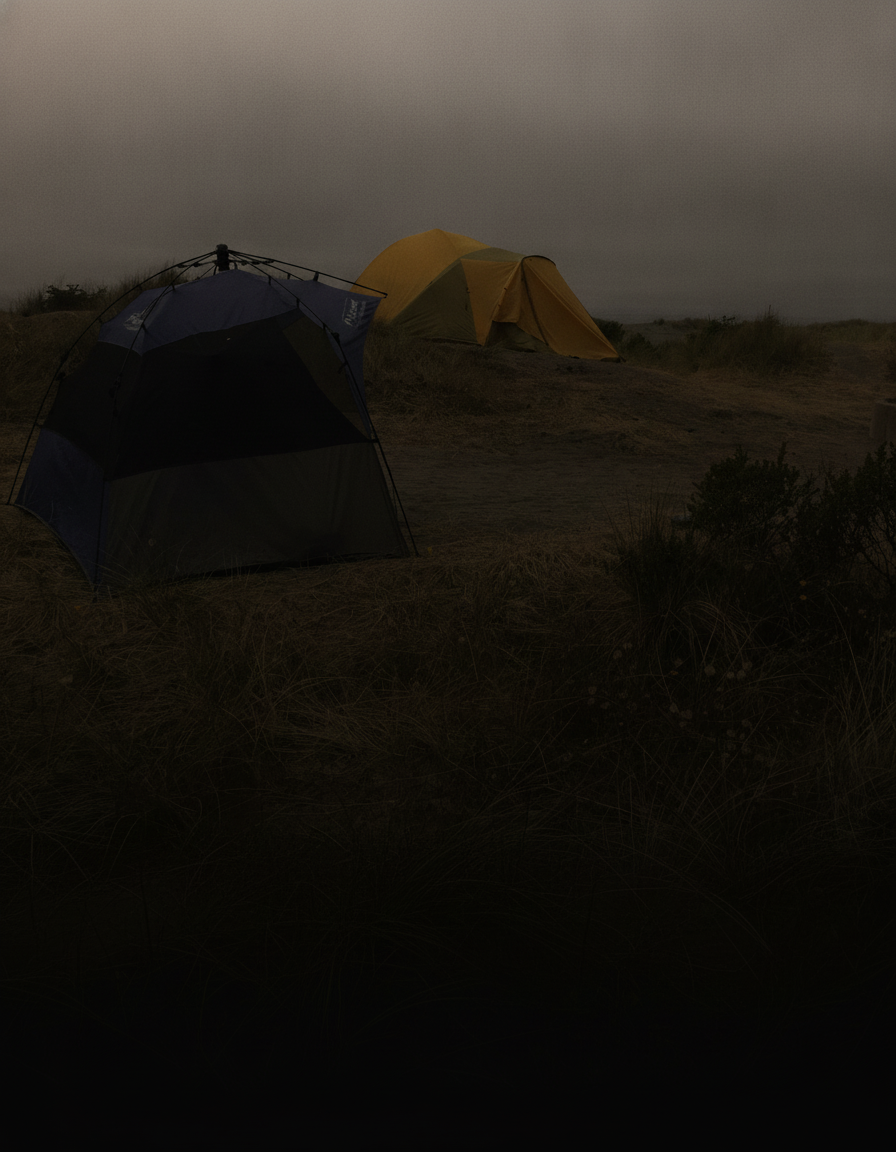
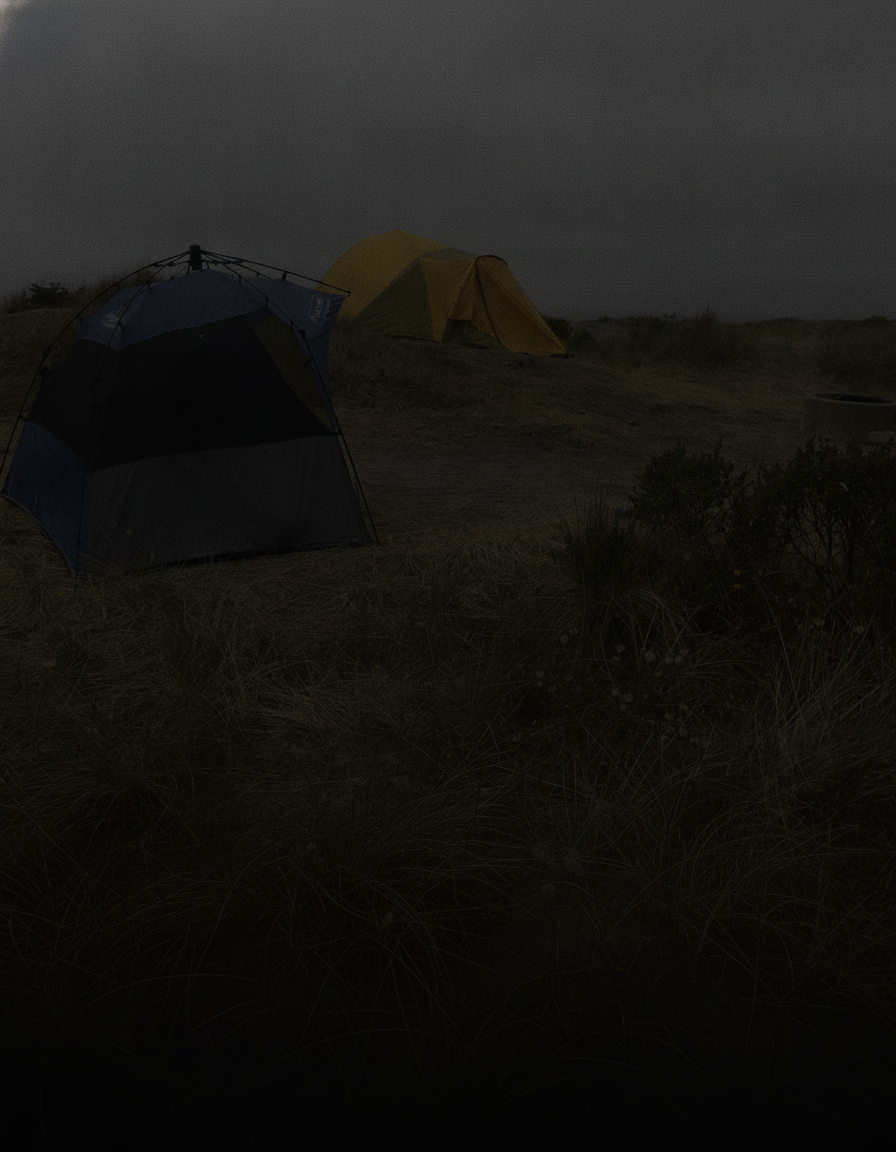
feat(data): Pin of the Week — add yoTrippin! brand wordmark to composite
Adds the "yoTrippin!" wordmark as a small watermark-scale mark, top-right, on
the composited post. This is layered on top of the existing DESIGN.md dark/amber
system — kicker, caption bar, typography, and amber accent are unchanged.

- extract-wordmark.ts isolates the white wordmark from the provided banner
  (near-white threshold in the upper-right region + connected-component speckle
  filter) → brand/yotrippin-wordmark.png (744x166, transparent). Extraction is
  clean (no residual box/stripe/speckle); one honest caveat — binary threshold
  means hard, non-anti-aliased glyph edges (negligible at watermark scale).
- composite.ts draws the mark top-right (balances the top-left kicker; the
  bottom corners collide with the long wrapped title). Skipped gracefully if the
  asset is missing.
- Source note: provided at assets/socailmedia/branding.png — the folder is
  misspelled "socailmedia" (not "social media"). A copy is bundled at
  brand/branding-source.png so extraction/render are reproducible; the top-level
  assets/ dir is left untracked.

Re-rendered Gold Bluffs Beach end-to-end (billed key, TEST) and visually
inspected: wordmark placed, readable, extraction clean, and nothing else in the
dark design changed. 25 unit tests + data typecheck pass. Supersedes #408.

TEST-only, no PROD writes.

diff --git a/data/pin-of-the-week/extract-wordmark.ts b/data/pin-of-the-week/extract-wordmark.ts
@@ -1,0 +1,152 @@
+/**
+ * One-time tool: isolate the white "yoTrippin!" wordmark from the branding
+ * banner into a clean transparent PNG for the composite.
+ *
+ * The banner was provided at assets/socailmedia/branding.png (note: the folder
+ * is misspelled "socailmedia", NOT the "social media" originally referenced).
+ * A copy is bundled here as brand/branding-source.png so this extractor and the
+ * composite are reproducible without the top-level asset.
+ *
+ * The source has a BLACK background with a speckled halo around the wordmark's
+ * blob (not transparent). We isolate the wordmark by:
+ *   1. searching the upper-right region (avoids the diagonal yellow/red stripes),
+ *   2. keeping only near-white pixels (drops black bg, stripes, and dark blob),
+ *   3. dropping small connected components (kills the halo speckle),
+ *   4. cropping tight to what remains.
+ *
+ * Output: brand/yotrippin-wordmark.png (committed; composite.ts loads that, not
+ * the source, so rendering is reproducible without the raw banner).
+ *
+ * Run: npx tsx data/pin-of-the-week/extract-wordmark.ts
+ */
+
+import { writeFile } from "node:fs/promises";
+import { fileURLToPath } from "node:url";
+import { dirname, join } from "node:path";
+import { createCanvas, loadImage } from "@napi-rs/canvas";
+
+const HERE = dirname(fileURLToPath(import.meta.url));
+const SOURCE = join(HERE, "brand", "branding-source.png");
+const OUT = join(HERE, "brand", "yotrippin-wordmark.png");
+
+// Near-white test — the wordmark is white; stripes (yellow/red) have a low
+// channel, so requiring all three high excludes them.
+const WHITE_MIN = 205;
+// Search box (fractions of the banner) — the wordmark blob is upper-right.
+const REGION = { x0: 0.52, x1: 1.0, y0: 0.0, y1: 0.72 };
+// Speckle filter: drop connected white blobs smaller than this many pixels.
+const MIN_COMPONENT = 120;
+
+function isWhite(d: Uint8ClampedArray, i: number): boolean {
+  return d[i] >= WHITE_MIN && d[i + 1] >= WHITE_MIN && d[i + 2] >= WHITE_MIN && d[i + 3] > 128;
+}
+
+async function main(): Promise<void> {
+  const img = await loadImage(SOURCE);
+  const W = img.width;
+  const H = img.height;
+  const src = createCanvas(W, H);
+  const sctx = src.getContext("2d");
+  sctx.drawImage(img, 0, 0);
+  const data = sctx.getImageData(0, 0, W, H).data;
+
+  const x0 = Math.floor(REGION.x0 * W);
+  const x1 = Math.floor(REGION.x1 * W);
+  const y0 = Math.floor(REGION.y0 * H);
+  const y1 = Math.floor(REGION.y1 * H);
+
+  // Binary mask of near-white pixels inside the search region.
+  const mask = new Uint8Array(W * H);
+  for (let y = y0; y < y1; y++) {
+    for (let x = x0; x < x1; x++) {
+      if (isWhite(data, (y * W + x) * 4)) mask[y * W + x] = 1;
+    }
+  }
+
+  // Connected components (4-neighbour flood fill); zero out ones below MIN.
+  const seen = new Uint8Array(W * H);
+  const stack: number[] = [];
+  let kept = 0;
+  let dropped = 0;
+  for (let p = 0; p < W * H; p++) {
+    if (mask[p] !== 1 || seen[p]) continue;
+    const comp: number[] = [];
+    stack.push(p);
+    seen[p] = 1;
+    while (stack.length) {
+      const q = stack.pop()!;
+      comp.push(q);
+      const qx = q % W;
+      const qy = (q - qx) / W;
+      const nbrs = [
+        qx > 0 ? q - 1 : -1,
+        qx < W - 1 ? q + 1 : -1,
+        qy > 0 ? q - W : -1,
+        qy < H - 1 ? q + W : -1,
+      ];
+      for (const n of nbrs) {
+        if (n >= 0 && mask[n] === 1 && !seen[n]) {
+          seen[n] = 1;
+          stack.push(n);
+        }
+      }
+    }
+    if (comp.length < MIN_COMPONENT) {
+      for (const q of comp) mask[q] = 0;
+      dropped += comp.length;
+    } else {
+      kept += comp.length;
+    }
+  }
+
+  // Tight bbox of surviving mask.
+  let minX = W;
+  let minY = H;
+  let maxX = 0;
+  let maxY = 0;
+  for (let y = 0; y < H; y++) {
+    for (let x = 0; x < W; x++) {
+      if (mask[y * W + x]) {
+        if (x < minX) minX = x;
+        if (x > maxX) maxX = x;
+        if (y < minY) minY = y;
+        if (y > maxY) maxY = y;
+      }
+    }
+  }
+  const pad = 6;
+  minX = Math.max(0, minX - pad);
+  minY = Math.max(0, minY - pad);
+  maxX = Math.min(W - 1, maxX + pad);
+  maxY = Math.min(H - 1, maxY + pad);
+  const ow = maxX - minX + 1;
+  const oh = maxY - minY + 1;
+
+  // Paint surviving white pixels onto a transparent canvas.
+  const out = createCanvas(ow, oh);
+  const octx = out.getContext("2d");
+  const outImg = octx.createImageData(ow, oh);
+  for (let y = 0; y < oh; y++) {
+    for (let x = 0; x < ow; x++) {
+      const srcP = (y + minY) * W + (x + minX);
+      const o = (y * ow + x) * 4;
+      if (mask[srcP]) {
+        outImg.data[o] = 255;
+        outImg.data[o + 1] = 255;
+        outImg.data[o + 2] = 255;
+        outImg.data[o + 3] = 255;
+      }
+    }
+  }
+  octx.putImageData(outImg, 0, 0);
+  await writeFile(OUT, out.toBuffer("image/png"));
+
+  console.log(`source ${W}x${H} → wordmark ${ow}x${oh}`);
+  console.log(`kept ${kept}px, dropped ${dropped}px as speckle (<${MIN_COMPONENT}px components)`);
+  console.log(`wrote ${OUT}`);
+}
+
+main().catch((err) => {
+  console.error(err instanceof Error ? err.message : err);
+  process.exit(1);
+});

diff --git a/data/pin-of-the-week/composite.ts b/data/pin-of-the-week/composite.ts
@@ -20,7 +20,10 @@ import { createCanvas, GlobalFonts, loadImage, type SKRSContext2D } from "@napi-
 import { BRAND } from "./style-guide.ts";
 import type { ImagePromptSpec } from "./image-prompt.ts";
 
-const FONT_DIR = join(dirname(fileURLToPath(import.meta.url)), "fonts");
+const MODULE_DIR = dirname(fileURLToPath(import.meta.url));
+const FONT_DIR = join(MODULE_DIR, "fonts");
+// Pre-extracted transparent "yoTrippin!" wordmark (see extract-wordmark.ts).
+const WORDMARK_PATH = join(MODULE_DIR, "brand", "yotrippin-wordmark.png");
 
 let fontsRegistered = false;
 function registerFonts(): void {
@@ -111,8 +114,24 @@ export async function compositePost(opts: CompositeOptions): Promise<Buffer> {
   ctx.textBaseline = "top";
   ctx.textAlign = "left";
   ctx.fillStyle = colors.amber;
-  ctx.font = `400 ${Math.round(W * 0.024)}px "Space Mono"`;
+  const kickerSize = Math.round(W * 0.024);
+  ctx.font = `400 ${kickerSize}px "Space Mono"`;
   drawTracked(ctx, opts.overlayText.kicker.toUpperCase(), PAD, PAD, Math.round(W * 0.006));
+
+  // 3b. Brand wordmark — small watermark-scale mark, top-right (balances the
+  // kicker; top-right stays clear of the long wrapped title in the bottom bar).
+  // Separate brand asset from the DESIGN.md dark/amber system — added on top,
+  // nothing else changes. Skipped gracefully if the asset is missing.
+  try {
+    const mark = await loadImage(WORDMARK_PATH);
+    const markW = Math.round(W * 0.17);
+    const markH = Math.round(markW * (mark.height / mark.width));
+    // Vertically center the mark on the kicker's cap height.
+    const markY = PAD + Math.round((kickerSize - markH) / 2);
+    ctx.drawImage(mark, W - PAD - markW, markY, markW, markH);
+  } catch {
+    // asset absent — leave the composite unchanged
+  }
 
   // 4. Caption block — bottom-anchored: brand, wrapped title, subline + verified.
   const brandSize = Math.round(W * 0.028);

diff --git a/data/pin-of-the-week/composite.test.ts b/data/pin-of-the-week/composite.test.ts
@@ -1,6 +1,11 @@
+import { existsSync } from "node:fs";
+import { fileURLToPath } from "node:url";
+import { dirname, join } from "node:path";
 import { describe, it, expect } from "vitest";
-import { createCanvas } from "@napi-rs/canvas";
+import { createCanvas, loadImage } from "@napi-rs/canvas";
 import { compositePost, coverRect, wrapText } from "./composite.ts";
+
+const HERE = dirname(fileURLToPath(import.meta.url));
 
 describe("coverRect", () => {
   it("scales to cover and centers a wider source in a portrait box", () => {
@@ -48,6 +53,14 @@ describe("compositePost", () => {
     // IHDR width/height (big-endian at bytes 16..24)
     expect(out.readUInt32BE(16)).toBe(1080);
     expect(out.readUInt32BE(20)).toBe(1350);
+  });
+
+  it("the extracted yoTrippin! wordmark asset is present and transparent", async () => {
+    const p = join(HERE, "brand", "yotrippin-wordmark.png");
+    expect(existsSync(p)).toBe(true);
+    const img = await loadImage(p);
+    expect(img.width).toBeGreaterThan(100);
+    expect(img.height).toBeGreaterThan(20);
   });
 
   it("falls back to the base color when the base image cannot decode", async () => {

diff --git a/docs/content/pin-of-the-week.md b/docs/content/pin-of-the-week.md
@@ -172,6 +172,27 @@ stages were **visually inspected** against `DESIGN.md`. Samples:
   scrim, kicker top-left, caption bar lower third, 4:5 portrait (1080×1350).
   *Literal / visually verified.*
 
+#### Brand wordmark (2026-09-10)
+
+The "yoTrippin!" wordmark is composited as a small watermark-scale mark in the
+**top-right** corner (balances the top-left kicker; top-right stays clear of the
+long wrapped title, which the bottom corners do not). It is a separate brand
+asset layered on top — the DESIGN.md dark/amber system, caption bar, and
+typography are unchanged.
+
+- **Source:** provided at `assets/socailmedia/branding.png` — note the folder is
+  misspelled **"socailmedia"** (not the "social media" path originally given).
+  A copy is bundled at `brand/branding-source.png` so extraction is reproducible.
+- **Extraction (`extract-wordmark.ts`):** the source is a striped banner with the
+  white wordmark on a black speckled blob (not transparent). The wordmark is
+  isolated by near-white thresholding within the upper-right region + a
+  connected-component speckle filter → `brand/yotrippin-wordmark.png` (744×166,
+  transparent). *Extraction quality: clean — visually verified on dark and grey
+  backgrounds, no residual box/stripe/speckle. One honest caveat: the isolation
+  is a binary threshold, so glyph edges are hard (not anti-aliased); negligible
+  at watermark scale, but it is not a vector-perfect cut.*
+- Skipped gracefully if the asset is absent (composite proceeds without it).
+
 ---
 
 ## Confidence notes (per the task's request)

diff --git a/data/pin-of-the-week/README.md b/data/pin-of-the-week/README.md
@@ -29,8 +29,10 @@ npm run -w data potw:generate -- --id <uuid> --llm --render
 | `style-guide.ts` | brand tokens (from `DESIGN.md`) + photo-treatment brief |
 | `image-prompt.ts` | per-place treatment prompt + overlay-text spec |
 | `nano-banana.ts` | step 1 — Gemini `gemini-2.5-flash-image` photo treatment (no text; dry-runs without a key) |
-| `composite.ts` | step 2 — deterministic caption bar via `@napi-rs/canvas`, real name + `DESIGN.md` fonts |
+| `composite.ts` | step 2 — deterministic caption bar via `@napi-rs/canvas`, real name + `DESIGN.md` fonts + brand wordmark |
+| `extract-wordmark.ts` | one-time tool: isolate the white "yoTrippin!" wordmark from the branding banner |
 | `fonts/` | bundled OFL fonts (Space Mono, Barlow, Barlow Condensed) for reproducible text |
+| `brand/` | `branding-source.png` (bundled source) + `yotrippin-wordmark.png` (extracted, transparent) |
 | `generate.ts` | GENERATE CLI — writes `base.png` (treatment) + `image.png` (final) to `output/<slug>/` |
 
 **Two-step image pipeline:** Nano Banana renders the graded hero photo with **no
